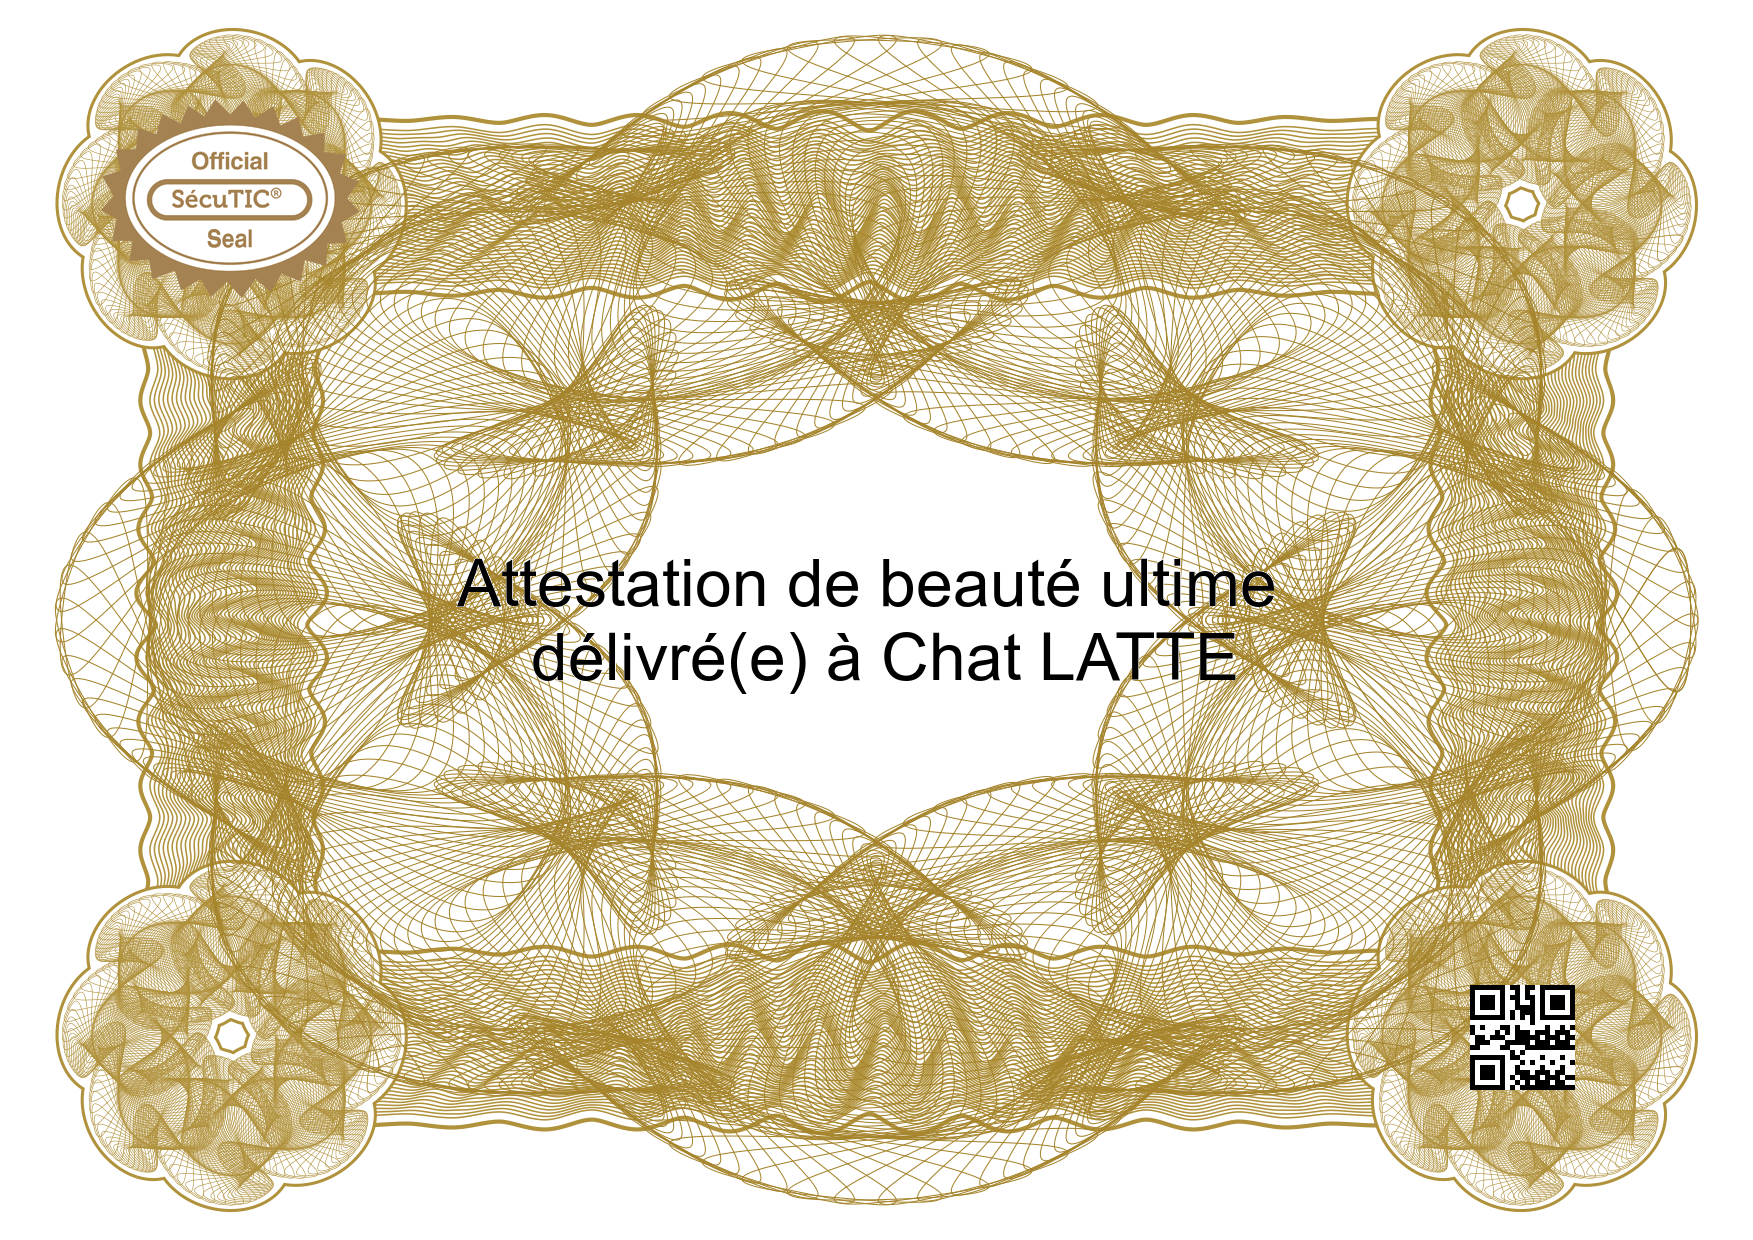
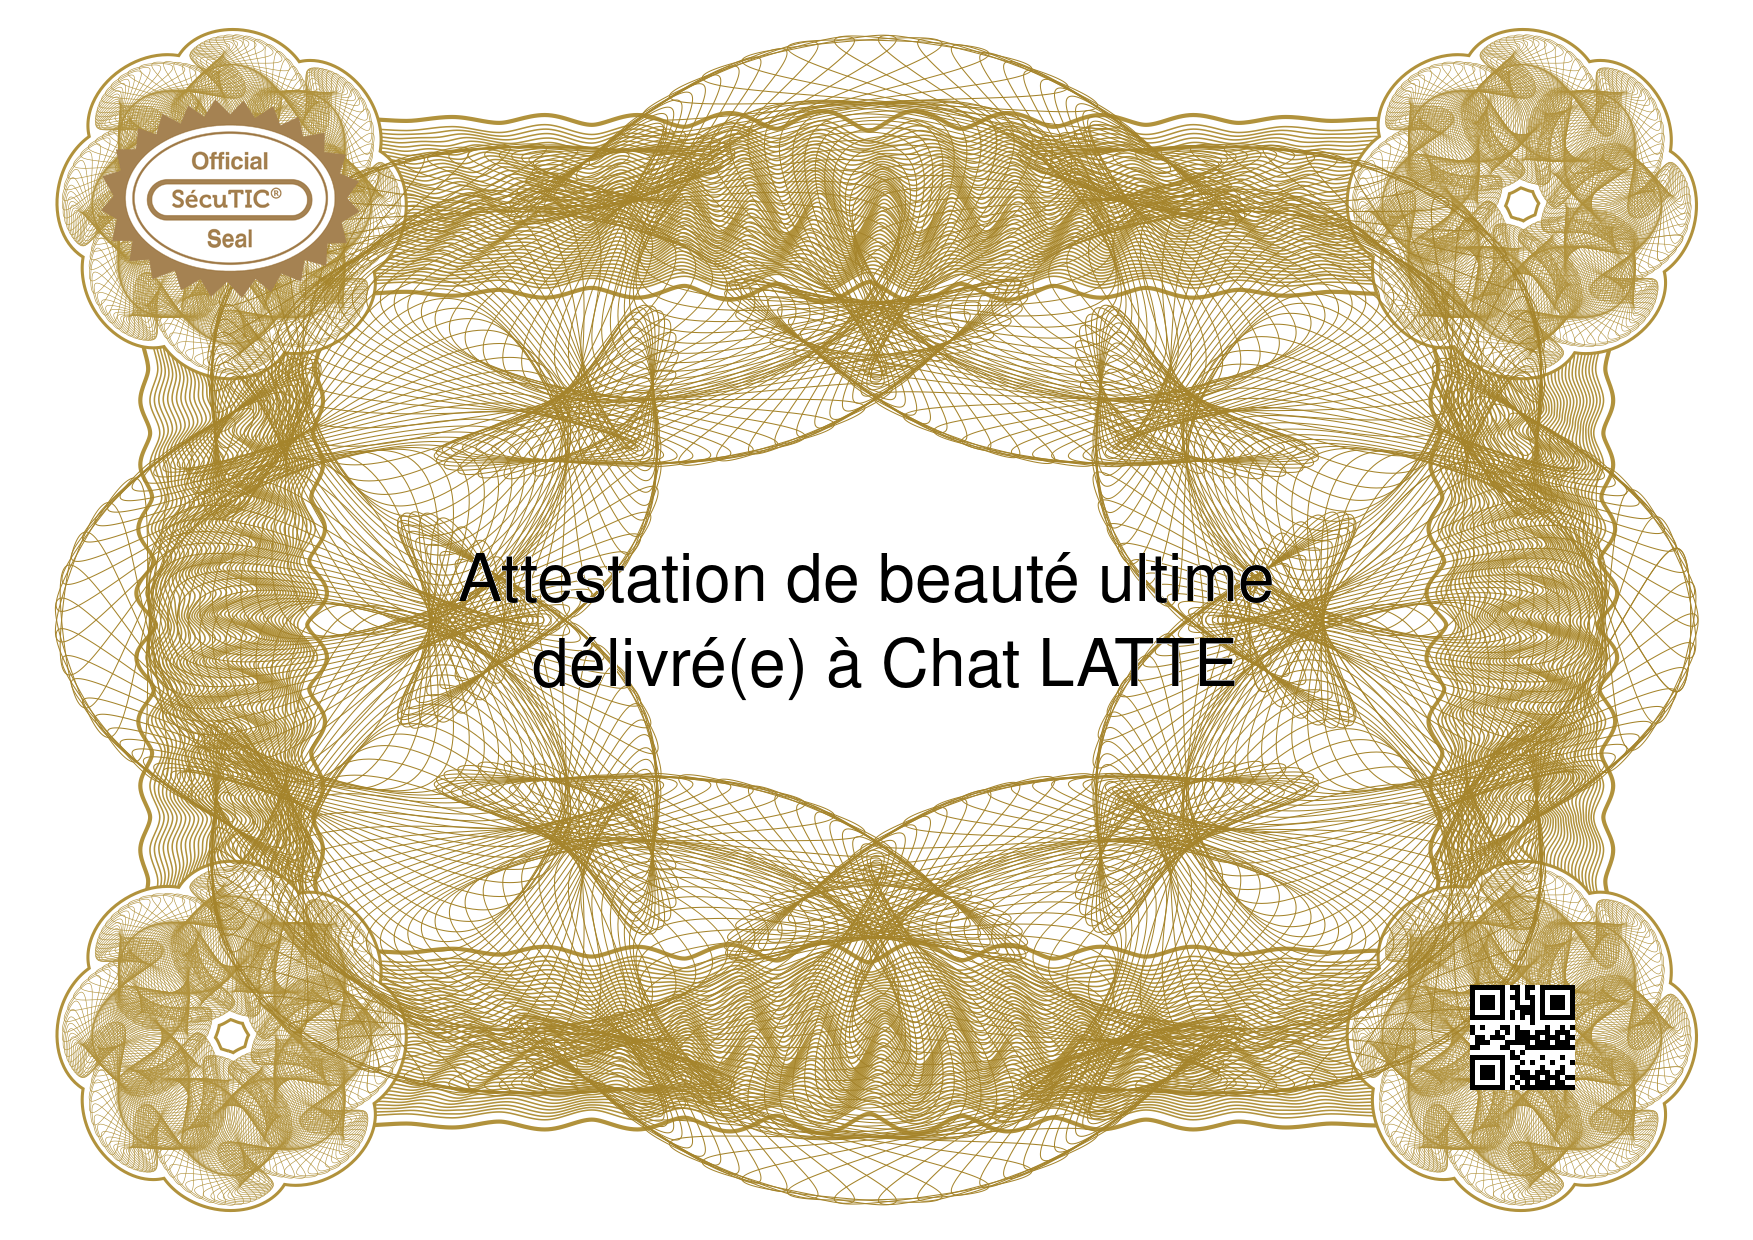
serveur_applicatif creation signature et finalisation creation_certificat et modification creer_qrcode

Changed region(s): [[0.2464, 0.429, 0.7393, 0.5516]]

diff --git a/src/serveur_applicatif.py b/src/serveur_applicatif.py
@@ -14,27 +14,43 @@ class ServeurApplicatif:
         self.cle_privee= cle_privee
 
     def obtenir_timestamp(self, nom_certificat: str):
+        """
+        Cette fonction crée ./src/cert/certFreeTSA/timestamp.tsq
+        """
         commande=subprocess.Popen(f'openssl ts -query -data {nom_certificat} -no_nonce -sha512 -cert -out ./src/cert/certFreeTSA/timestamp.tsq', shell=True,stdout=subprocess.PIPE)
         (resultat, ignorer) = commande.communicate()
         #commande=subprocess.Popen(f"curl -H 'Content-Type: application/timestamp-query' --data-binary '@./src/cert/certFreeTSA/timestamp.tsq' https://freetsa.org/tsr > ./src/cert/certFreeTSA/timestamp.tsr", shell=True,stdout=subprocess.PIPE)
         #(resultat, ignorer) = commande.communicate()
 
 
-    def creation_certificat(self, etudiant: Etudiant,signature:str)-> Image:
+    def creation_certificat(self, etudiant: Etudiant)-> Image:
+        """
+        Cette fonction crée ./src/img/attestation_stegano.png
+        """
         commande=subprocess.Popen(f'convert -size 1000x600 -gravity center -pointsize 66 label:"{etudiant.certificat.intitule} \n délivré(e) à {etudiant.nom} {etudiant.prenom}" -transparent white ./src/img/texte.png', shell=True,stdout=subprocess.PIPE)
         (resultat, ignorer) = commande.communicate()
-        self.creer_qrcode(signature) 
+
+        bloc=(etudiant.nom+etudiant.prenom+etudiant.certificat.intitule).zfill(64)
+        self.signature(bloc)
+        self.creer_qrcode("./src/cles/bloc_hash.sig") 
+
         commande=subprocess.Popen("composite -gravity center ./src/img/texte.png ./src/img/fond_attestation.png ./src/img/combinaison.png", shell=True,stdout=subprocess.PIPE)
         (resultat, ignorer) = commande.communicate()
         commande=subprocess.Popen("composite -geometry +1470+985 ./src/img/qrcode.png ./src/img/combinaison.png ./src/img/attestation.png", shell=True,stdout=subprocess.PIPE)
         (resultat, ignorer) = commande.communicate()
-        bloc=(etudiant.nom+etudiant.prenom+etudiant.certificat.intitule).zfill(64)
-        self.obtenir_timestamp("./src/img/attestation.png")
+
         self.dissimulation_par_steganographie(bloc)
-        #TODO fonction signature
 
 
-    def creer_qrcode(self,signature:str):
+
+    def creer_qrcode(self,chemin_signature:str):
+        """
+        Cette fonction crée ./src/img/qrcode.png
+        """
+        signature=""
+        with open(chemin_signature,"r") as fichier:
+            signature=fichier.readlines()
+            
         nom_fichier = "./src/img/qrcode.png"
         qr=qrcode.QRCode(box_size=5,border=0)
         qr.make(signature)
@@ -46,6 +62,9 @@ class ServeurApplicatif:
         pass
 
     def dissimulation_par_steganographie(self, bloc_information: str) -> bytes:
+        """
+        Cette fonction crée ./src/img/attestation_stegano.png
+        """
         timestamp = []
         with open("./src/cert/certFreeTSA/timestamp.tsq", "rb") as f:
             content = f.readlines()[0]
@@ -68,6 +87,18 @@ class ServeurApplicatif:
         print(res)
         return res
     
+    def signature(self,bloc:str): #Curve25519
+        """
+        Cette fonction crée ./src/cles/bloc_hash.sig 
+        """
+        commande=subprocess.Popen(f"openssl ecparam -out ./src/cles/ecc25519_cle_privee_signature.pem -name prime256v1 -genkey", shell=True,stdout=subprocess.PIPE)
+        (resultat, ignorer) = commande.communicate()
+        commande=subprocess.Popen(f"openssl ec -in ./src/cles/ecc25519_cle_privee_signature.pem -pubout -out ./src/cles/ecc25519_cle_publique_signature.pem", shell=True,stdout=subprocess.PIPE)
+        (resultat, ignorer) = commande.communicate()
+
+        commande=subprocess.Popen(f"echo -n {bloc} | openssl dgst -hex -sha256 -sign ./src/cles/ecc25519_cle_privee_signature.pem -out ./src/cles/bloc_hash.sig", shell=True,stdout=subprocess.PIPE)
+        (resultat, ignorer) = commande.communicate()
+
 
     def extraire_qrcode_informations(self,chemin_image:str)->int:
         pass
@@ -75,13 +106,18 @@ class ServeurApplicatif:
 if __name__ == "__main__":
     etu=Etudiant("Chat","LATTE", Certificat("Attestation de beauté ultime"))
     # Taille fichier .tsq: 91 octets
-    signature="chatouille"
+    #signature="chatouille"
     stegano: Steganographie = Steganographie()
     serveur_app=ServeurApplicatif(stegano, "Iscia")
-    print(serveur_app.creer_qrcode(signature))
-    print(serveur_app.creation_certificat(etu,signature))
+    
+    #print(serveur_app.creer_qrcode(signature))
+
+    print(serveur_app.creation_certificat(etu))
+    """
     print(os.getcwd())
     serveur_app.extraire_infos_steganographie("./src/img/attestation_stegano.png")
+    """
+    print(serveur_app.signature("bonjour"))
     """
     serveur_app.obtenir_timestamp("./src/img/attestation.png")
     #### DÉBUT: Pour la vérification du certificat (timestamp)
@@ -123,8 +159,10 @@ if __name__ == "__main__":
         
     #stegano.cacher("./src/img/attestation.png", "")
     """
+    """
     commande=subprocess.Popen(f"curl -H 'Content-Type: application/timestamp-query' --data-binary '@./src/cert/certFreeTSA/timestampFromStegano.tsq' https://freetsa.org/tsr > ./src/cert/certFreeTSA/timestampFromStegano.tsr", shell=True,stdout=subprocess.PIPE)
     (resultat, ignorer) = commande.communicate()
     commande=subprocess.Popen(f"openssl ts -verify -in ./src/cert/certFreeTSA/timestampFromStegano.tsr -queryfile ./src/cert/certFreeTSA/timestampFromStegano.tsq -CAfile ./src/cert/certFreeTSA/cacert.pem -untrusted ./src/cert/certFreeTSA/tsa.crt", shell=True,stdout=subprocess.PIPE)
     (resultat, ignorer) = commande.communicate()
     print(resultat.decode())
+    """
